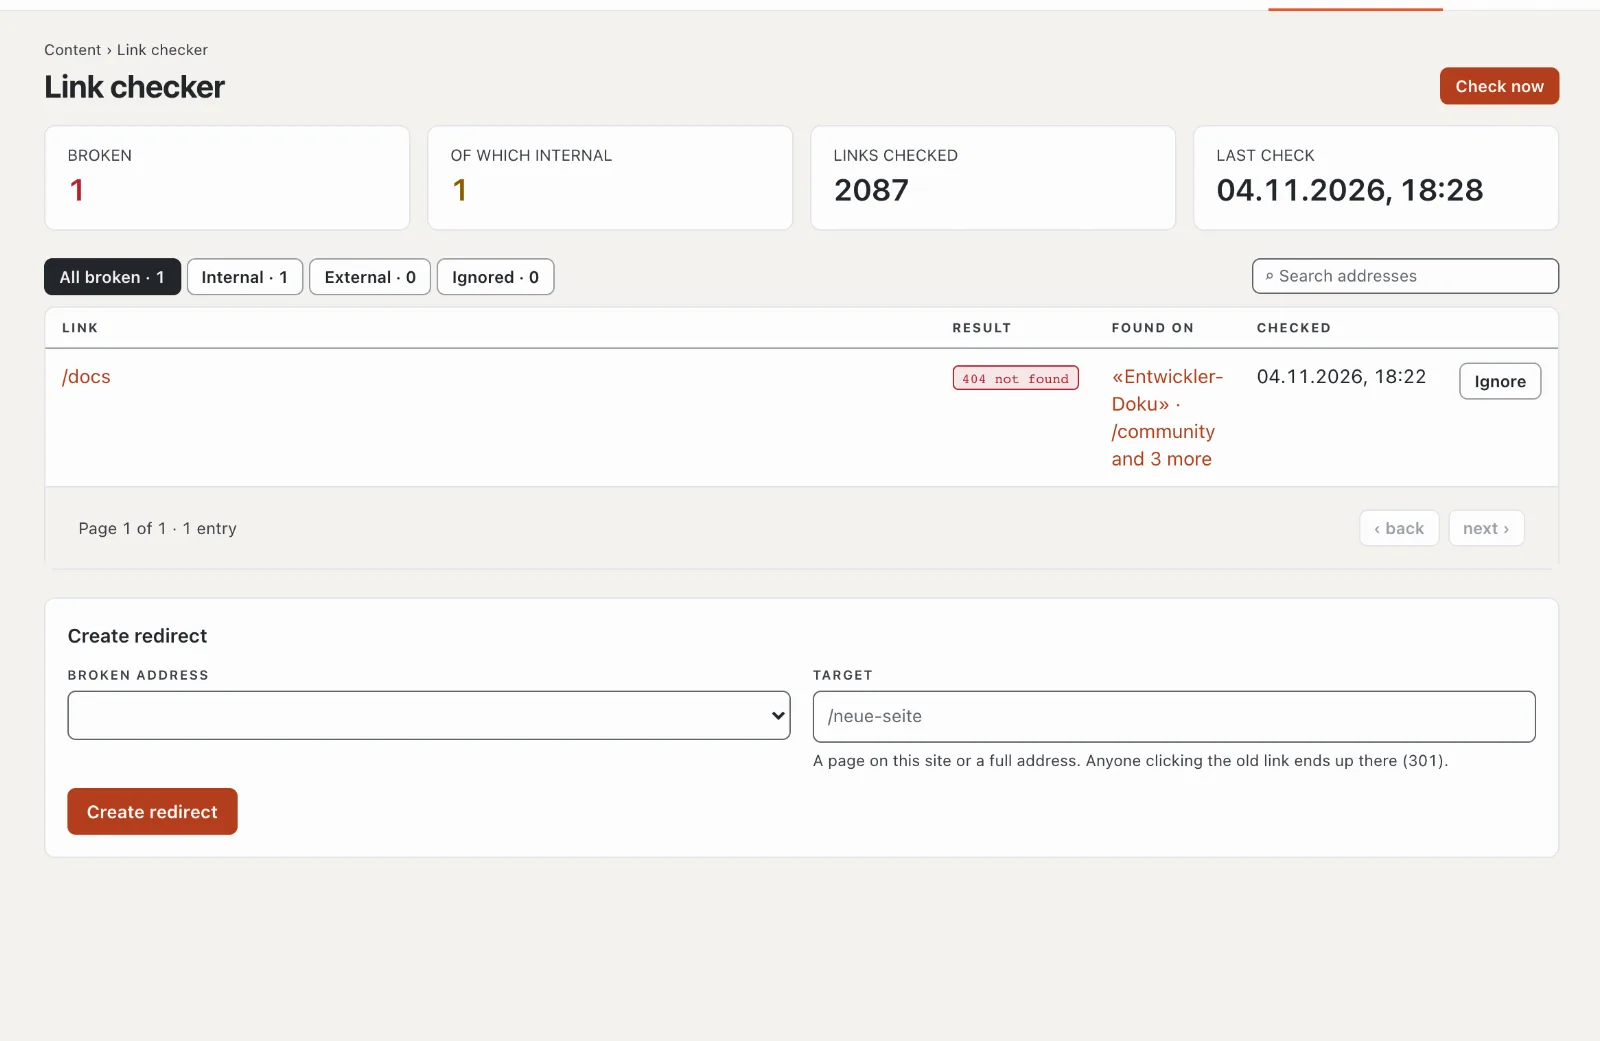
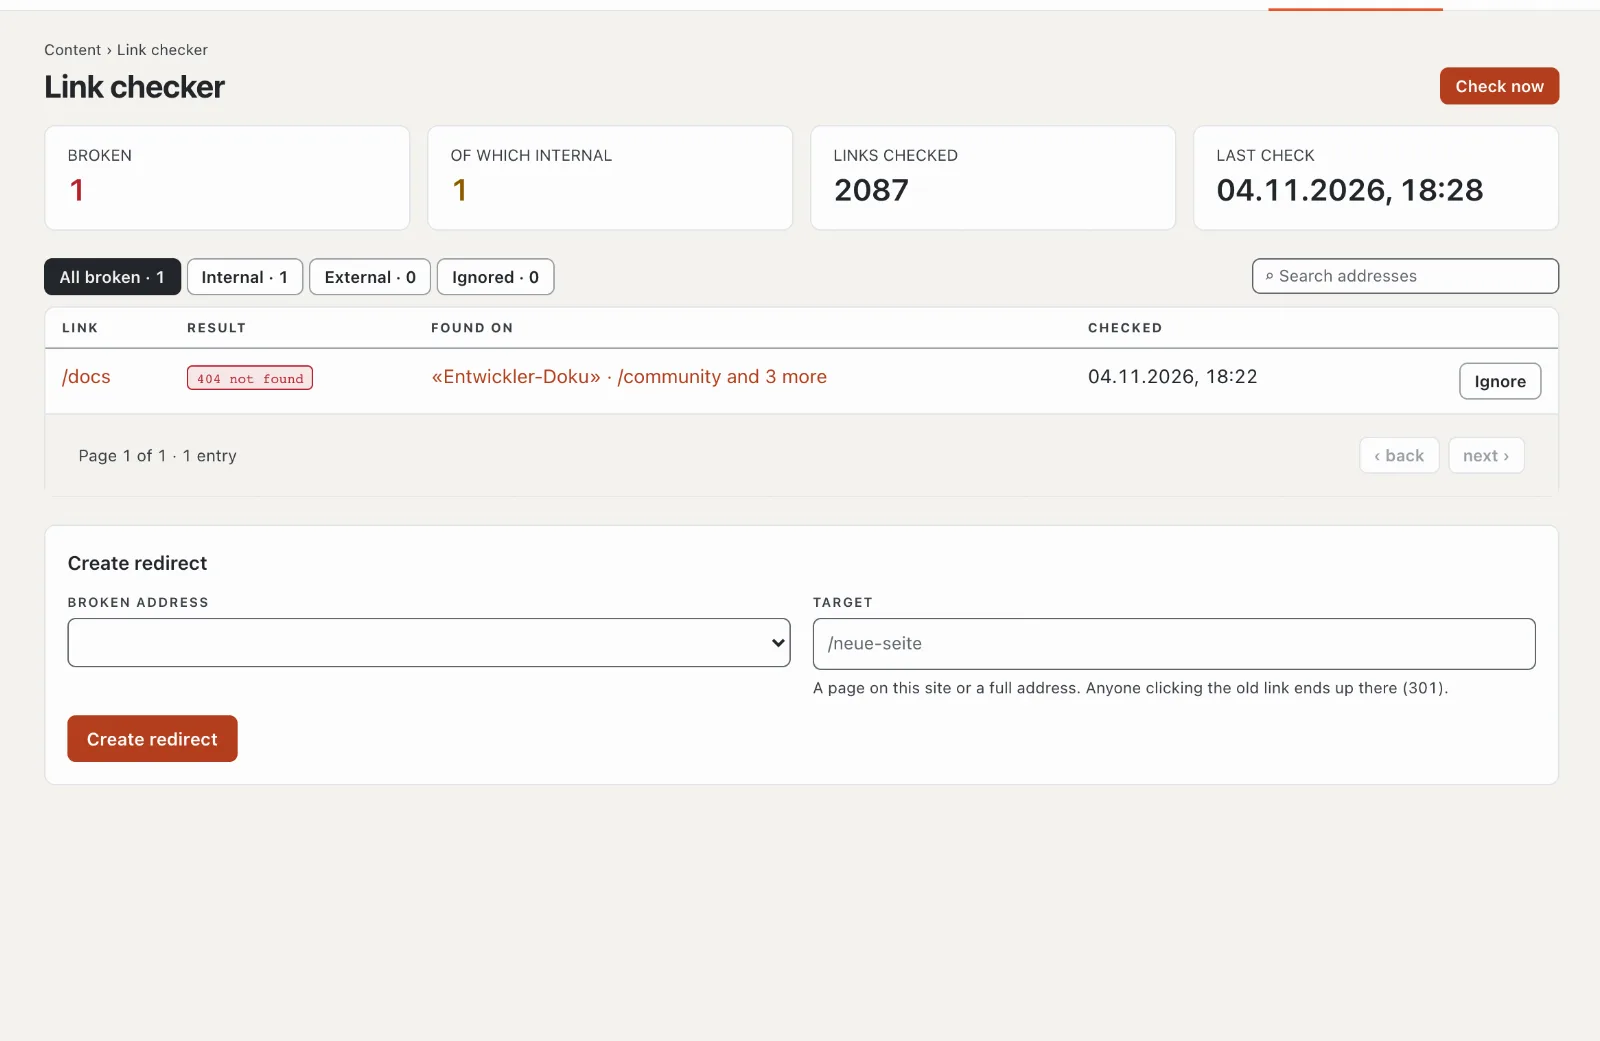
Stand vom 14.11.2026 (Werkstatt 2707366c)
Erzeugt mit tools/produkt-repo.sh aus der privaten Werkstatt: Kern, Lava, Module ai, comments, forum und members,
Theme starter, Produkt-Doku in vier Sprachen.

diff --git a/packages/core/resources/js/components/admin/AdminTable.vue b/packages/core/resources/js/components/admin/AdminTable.vue
@@ -6,6 +6,7 @@ import { controlClasses } from '../control';
 import EmptyState from '../EmptyState.vue';
 import StateTag from '../StateTag.vue';
 import Table from '../Table.vue';
+import { keepsTogether, numeric } from './table';
 import { tagTone, withQuery } from './types';
 import type { AdminTableSection, RunAction } from './types';
 
@@ -62,15 +63,6 @@ watch(term, (value) => {
 
 const search = controlClasses({ small: true });
 const checkbox = 'h-4 w-4 accent-lava-dark';
-const numeric = (type: string): boolean =>
-    type === 'number' || type === 'money';
-/*
- * Breite: Der Browser verteilt sie nach dem Inhalt. Früher nahm die erste Spalte allen Platz («w-full») — gut, wenn
- * sie der Name ist, schlecht, wenn sie eine kurze Nummer ist (CRM, Bilanz, Rechnungen): Dann brachen alle anderen
- * Spalten Wort für Wort um. Kurze Werte (Nummern, Beträge, Stände) brechen nie um.
- */
-const short = (type: string): boolean =>
-    numeric(type) || type === 'mono' || type === 'badge';
 </script>
 
 <template>
@@ -204,7 +196,9 @@ const short = (type: string): boolean =>
                         numeric(c.type) ? 'text-right tabular-nums' : '',
                         c.type === 'mono' ? 'font-mono text-[12.5px]' : '',
                         c.type === 'date' ? 'md:whitespace-nowrap' : '',
-                        short(c.type) ? 'whitespace-nowrap' : '',
+                        keepsTogether(c.type, row.cells[c.key]?.text ?? '')
+                            ? 'whitespace-nowrap'
+                            : '',
                     ]"
                 >
                     <template v-if="row.cells[c.key]">

diff --git a/packages/core/resources/js/components/admin/table.test.ts b/packages/core/resources/js/components/admin/table.test.ts
@@ -1,0 +1,32 @@
+import { describe, expect, it } from 'vitest';
+import { keepsTogether, numeric } from './table';
+
+describe('Tabellen aus Beschreibung', () => {
+    it('hält Zahlen, Beträge, Codes und Stände immer auf einer Zeile', () => {
+        expect(keepsTogether('money', 'CHF 1’165.00')).toBe(true);
+        expect(keepsTogether('number', '2087')).toBe(true);
+        expect(keepsTogether('mono', '000000000000000000202600205')).toBe(true);
+        expect(keepsTogether('badge', 'Nicht zugeordnet')).toBe(true);
+    });
+
+    it('hält kurze Werte ohne Leerzeichen zusammen — eine Nummer bricht nicht am Bindestrich', () => {
+        expect(keepsTogether('text', '2026-0053')).toBe(true);
+        expect(keepsTogether('link', '/docs')).toBe(true);
+    });
+
+    it('lässt Text mit Leerzeichen und lange Werte umbrechen', () => {
+        expect(
+            keepsTogether('text', 'Mitgliederbeitrag 2026 · Aktivmitglied'),
+        ).toBe(false);
+        expect(
+            keepsTogether('text', 'heidi.fischer.107@testdaten.example'),
+        ).toBe(false);
+        expect(keepsTogether('date', '04.11.2026, 18:22')).toBe(false);
+    });
+
+    it('stellt nur Zahlen und Beträge rechtsbündig', () => {
+        expect(numeric('money')).toBe(true);
+        expect(numeric('number')).toBe(true);
+        expect(numeric('mono')).toBe(false);
+    });
+});

diff --git a/packages/core/resources/js/components/admin/table.ts b/packages/core/resources/js/components/admin/table.ts
@@ -1,0 +1,30 @@
+import type { AdminTableSection } from './types';
+
+/**
+ * Tabellen aus Beschreibung (CR-018, TB 99): Breite und Umbruch. Der Browser verteilt die Breite nach dem Inhalt —
+ * früher nahm die erste Spalte allen Platz («w-full»), und war sie eine kurze Nummer, brachen alle anderen Spalten Wort
+ * für Wort um (CR-020, TB 116).
+ */
+
+type ColumnType = AdminTableSection['columns'][number]['type'];
+
+/** Längster Wert ohne Leerzeichen, der noch als «kurz» gilt (Nummern, Codes, Kürzel). */
+export const SHORT_TOKEN = 20;
+
+/** Zahlen und Beträge stehen rechtsbündig. */
+export function numeric(type: ColumnType): boolean {
+    return type === 'number' || type === 'money';
+}
+
+/**
+ * Bleibt der Wert auf einer Zeile? Immer bei Zahlen, Beträgen, Codes und Ständen; sonst, wenn er kurz ist und kein
+ * Leerzeichen hat — eine Nummer wie «2026-0053» bricht sonst am Bindestrich um. Lange Werte ohne Leerzeichen
+ * (Adressen, Links) dürfen brechen, damit die Tabelle nicht breiter wird als ihr Platz.
+ */
+export function keepsTogether(type: ColumnType, text: string): boolean {
+    if (numeric(type) || type === 'mono' || type === 'badge') {
+        return true;
+    }
+
+    return text.length <= SHORT_TOKEN && !/\s/.test(text);
+}

diff --git a/packages/core/src/Hosting/Hostnames.php b/packages/core/src/Hosting/Hostnames.php
@@ -29,6 +29,11 @@ use Illuminate\Support\Str;
  *
  * Fehlt eine Voraussetzung (1, 3, 5), folgt der nächste Versuch nach zwei Minuten — so lange braucht LiteSpeed bei cyon
  * für eine neue Unterdomain oder ein neues Zertifikat —, sonst nach `retry_minutes`.
+ *
+ * Mit Caddy (`panel` = `caddy`, eigener Server, Leitstand T-03) gibt es weder Panel noch eigenes ACME: Caddy holt das
+ * Zertifikat beim ersten Abruf selbst (Zertifikate auf Abruf, *On-Demand TLS*) und fragt vorher Basalto, ob es den Host
+ * gibt ({@see self::allowsCertificate()}). Eingerichtet heisst dann: DNS zeigt hierher (1), `https://<host>/up`
+ * antwortet (5) — dieser Abruf löst das Zertifikat aus. Erneuern macht Caddy.
  */
 final class Hostnames
 {
@@ -36,9 +41,41 @@ final class Hostnames
 
     public function __construct(private readonly Cpanel $panel, private readonly AcmeClient $acme, private readonly Dns $dns) {}
 
+    public const PANEL_CPANEL = 'cpanel';
+
+    public const PANEL_CADDY = 'caddy';
+
     public static function enabled(): bool
     {
-        return config('basalto.hosting.panel') === 'cpanel';
+        return in_array(config('basalto.hosting.panel'), [self::PANEL_CPANEL, self::PANEL_CADDY], true);
+    }
+
+    /** Zertifikate holt der Webserver selbst (Caddy, On-Demand TLS) — Basalto gibt nur frei. */
+    public static function onDemand(): bool
+    {
+        return config('basalto.hosting.panel') === self::PANEL_CADDY;
+    }
+
+    /**
+     * Darf der Webserver für diesen Host ein Zertifikat holen? Nur für Hosts, die Basalto kennt: Unterdomains der Zone, die
+     * Basalto einrichtet (vorgemerkt oder bereit), und bestätigte eigene Domains von Sites. Eine Abfrage über den
+     * eindeutigen Index — Caddy fragt bei jedem Handschlag eines unbekannten Namens neu (Leitstand F-9).
+     */
+    public static function allowsCertificate(string $host): bool
+    {
+        $host = strtolower(trim($host));
+        if (! self::onDemand() || $host === '' || strlen($host) > 253) {
+            return false;
+        }
+        $domain = SiteDomain::query()->withoutGlobalScopes()->where('host', $host)->first(['host', 'kind', 'verified_at', 'hosting_status']);
+        if ($domain === null) {
+            return false;
+        }
+        if (in_array($domain->hosting_status, [SiteDomain::HOSTING_PENDING, SiteDomain::HOSTING_READY], true)) {
+            return self::manages($host);
+        }
+
+        return $domain->kind === SiteDomain::KIND_CUSTOM && $domain->verified_at !== null;
     }
 
     public static function zone(): string
@@ -91,10 +128,11 @@ final class Hostnames
     {
         $renew = now()->addDays((int) config('basalto.hosting.acme.renew_days', 30));
 
+        // Mit Caddy erneuert der Webserver selbst — fällig sind nur vorgemerkte Hosts
         return SiteDomain::query()->withoutGlobalScopes()
             ->where(static fn (Builder $q) => $q->where('hosting_status', SiteDomain::HOSTING_PENDING)
-                ->orWhere(static fn (Builder $q) => $q->where('hosting_status', SiteDomain::HOSTING_READY)
-                    ->where(static fn (Builder $q) => $q->whereNull('certificate_expires_at')->orWhere('certificate_expires_at', '<=', $renew))))
+                ->when(! self::onDemand(), static fn (Builder $q) => $q->orWhere(static fn (Builder $q) => $q->where('hosting_status', SiteDomain::HOSTING_READY)
+                    ->where(static fn (Builder $q) => $q->whereNull('certificate_expires_at')->orWhere('certificate_expires_at', '<=', $renew)))))
             ->when(! $now, static fn (Builder $q) => $q->where(static fn (Builder $q) => $q->whereNull('hosting_retry_at')->orWhere('hosting_retry_at', '<=', now())));
     }
 
@@ -114,6 +152,9 @@ final class Hostnames
             }
             $zone = self::zone();
             $this->pointsHere($host, $zone);
+            if (self::onDemand()) {
+                return $this->readyOnDemand($domain, $host);
+            }
             $root = $this->panel->documentRoot($zone);
             if (! in_array($host, $this->panel->subdomains(), true)) {
                 $this->panel->addSubdomain($host, $zone, substr($root['root'], strlen($root['home']) + 1));
@@ -146,6 +187,25 @@ final class Hostnames
 
             return ['host' => $host, 'ok' => false, 'waiting' => $waiting, 'message' => $e->getMessage()];
         }
+    }
+
+    /**
+     * Caddy: Der erste Abruf über https holt das Zertifikat (Basalto hat den Host schon freigegeben, er ist vorgemerkt) —
+     * antwortet `/up`, ist der Host bereit. Das Ablaufdatum kennt nur Caddy; es bleibt leer.
+     *
+     * @return array{host: string, ok: bool, waiting: bool, message: string}
+     */
+    private function readyOnDemand(SiteDomain $domain, string $host): array
+    {
+        $this->answersOverHttps($host);
+        $becomesReady = $domain->hosting_status !== SiteDomain::HOSTING_READY;
+        $domain->forceFill(['hosting_status' => SiteDomain::HOSTING_READY, 'hosting_error' => null, 'hosting_checked_at' => now(), 'hosting_retry_at' => null,
+            'certificate_expires_at' => null])->save();
+        if ($becomesReady) {
+            event(new HostnameReady($domain));
+        }
+
+        return ['host' => $host, 'ok' => true, 'waiting' => false, 'message' => 'bereit, Zertifikat vom Webserver (Caddy)'];
     }
 
     private function pointsHere(string $host, string $zone): void

diff --git a/packages/core/routes/frontend.php b/packages/core/routes/frontend.php
@@ -5,6 +5,7 @@ declare(strict_types=1);
 use Basalto\Core\Backend\Backend;
 use Basalto\Core\Help\HelpImages;
 use Basalto\Core\Http\Controllers\CancellationController;
+use Basalto\Core\Http\Controllers\CertificatePermissionController;
 use Basalto\Core\Http\Controllers\DocsImageController;
 use Basalto\Core\Http\Controllers\FormSubmissionController;
 use Basalto\Core\Http\Controllers\FrontendController;
@@ -27,6 +28,9 @@ Route::post('forms/{handle}', FormSubmissionController::class)->where('handle', 
 // Betrieb (K-17): Readiness mit Datenbank und Herzschlag, Liveness ohne Datenbank — ohne Sitzung, vor der Auslieferung
 Route::get('up', [UpController::class, 'ready'])->name('basalto.up');
 Route::get('up/live', [UpController::class, 'live'])->name('basalto.up.live');
+
+// Leitstand T-03: Prüfendpunkt für Zertifikate auf Abruf (Caddy) — nur vom Server selbst, nur mit BASALTO_HOSTING_PANEL=caddy
+Route::get('_zertifikat/erlaubt', CertificatePermissionController::class)->name('basalto.certificate.permission');
 
 // TB 11 Scheibe 3 (G-07): Rechtstexte öffentlich — ohne Sitzung, Cookies und Datenbank, damit der Installer sie
 // schon vor der Datenbank verlinken kann; der Unterstrich hält den Pfad frei von Seiten einer Site (wie «_theme»)

diff --git a/packages/core/src/Http/Controllers/CertificatePermissionController.php b/packages/core/src/Http/Controllers/CertificatePermissionController.php
@@ -1,0 +1,32 @@
+<?php
+
+declare(strict_types=1);
+
+namespace Basalto\Core\Http\Controllers;
+
+use Basalto\Core\Hosting\Hostnames;
+use Illuminate\Http\Request;
+use Illuminate\Http\Response;
+
+/**
+ * Prüfendpunkt für Zertifikate auf Abruf (Leitstand T-03, `BASALTO_HOSTING_PANEL=caddy`): Caddy fragt vor jedem
+ * Zertifikat `/_zertifikat/erlaubt?domain=<host>`; nur 200 erlaubt es. Antwortet nur Anfragen vom Server selbst —
+ * massgebend ist die Adresse der Verbindung (REMOTE_ADDR), nicht `X-Forwarded-For`, damit niemand über das Internet die
+ * Liste der Hosts abfragt. Ohne Sitzung, ohne Site.
+ */
+final class CertificatePermissionController
+{
+    private const LOCAL = ['127.0.0.1', '::1'];
+
+    public function __invoke(Request $request): Response
+    {
+        if (! Hostnames::onDemand() || ! in_array($request->server('REMOTE_ADDR'), self::LOCAL, true)) {
+            abort(404);
+        }
+        // `domain[]=…` käme als Liste an — dann gibt es nichts frei
+        $domain = $request->query('domain');
+        $allowed = is_string($domain) && Hostnames::allowsCertificate($domain);
+
+        return response('', $allowed ? 200 : 404, ['Cache-Control' => 'no-store']);
+    }
+}

diff --git a/packages/core/config/basalto.php b/packages/core/config/basalto.php
@@ -97,9 +97,11 @@ return [
      * etwa bei cyon) mit dem Dokumentstamm der Zone, Zertifikat von Let's Encrypt (HTTP-01 über Dateien im
      * Dokumentstamm), Erneuerung `renew_days` vor dem Ablauf. Leer = aus (Download, lokal, Cloud). Voraussetzung: Ein
      * DNS-Platzhalter `*` der Zone zeigt auf den Server.
+     * `caddy` (eigener Server): Caddy holt Zertifikate auf Abruf (On-Demand TLS) und fragt vorher den Prüfendpunkt
+     * `/_zertifikat/erlaubt?domain=` (nur vom Server selbst); Basalto ruft weder Panel noch Let's Encrypt auf.
      */
     'hosting' => [
-        'panel' => env('BASALTO_HOSTING_PANEL'),
+        'panel' => env('BASALTO_HOSTING_PANEL'),   // cpanel | caddy
         // die Zone, unter der Unterdomains entstehen; leer = die Alias-Zone (saas.alias_domain)
         'zone' => env('BASALTO_HOSTING_ZONE'),
         'uapi' => env('BASALTO_HOSTING_UAPI', 'uapi'),
